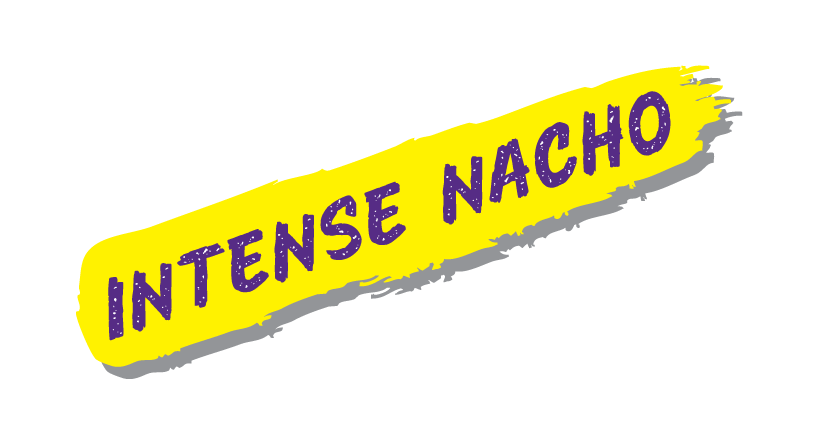
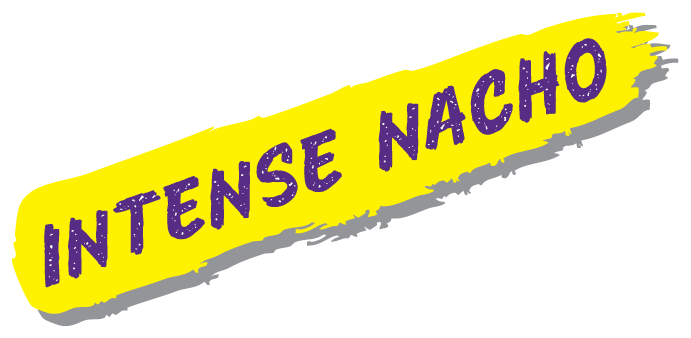
Ronda 66: jerarquía visual + espaciado + selector legible en Takis
Tres correcciones del cliente sobre la tarjeta de nombre+descripción y el selector de presentación:

- Se quita la etiqueta "TAKIS" (competía con el nombre real del sabor). Los 8 PNG oficiales de nombres tenían ~35-45% de margen transparente alrededor del manchón (verificado con getbbox()), así que se recortaron a su contenido real y el nombre crece de max-w-240px a max-w-sm/md: ahora es el elemento más grande de la tarjeta.
- Nombre+descripción, picómetro y CTA se agrupan en bloques con su propio spacing en vez de 5 elementos sueltos con el mismo gap plano; la descripción baja a text-sm/60% para no competir en peso con el nombre.
- La barra negra sólida de "Presentación" (fix de contraste de la Ronda 65) tapaba el borde de las pastillas inactivas de SizePicker, sin affordance de botón. Pasa a bg-white/95, el mismo fondo y contraste con el que ese selector ya funciona en las otras 5 marcas.

Changed region(s): [[0.0, 0.0296, 1.0, 0.9763]]

diff --git a/src/components/TakisProductDetail.tsx b/src/components/TakisProductDetail.tsx
@@ -41,6 +41,28 @@ import RelatedProductsSlider from "./RelatedProductsSlider";
 // (bg-barcel-black) en vez de flotar directo sobre la imagen. Además se
 // reemplaza bg.jpg por el fondo oficial nuevo que compartió el cliente
 // (BG Takis.pdf: diagonal morado/amarillo con espirales de marca).
+//
+// Ronda 66: tres correcciones del cliente sobre esta misma tarjeta:
+// 1) La etiqueta "TAKIS" se quita — competía en peso visual con el
+//    nombre real del sabor. Los PNG oficiales de nombres además traían
+//    ~35-45% de margen transparente alrededor del manchón (verificado
+//    con getbbox()), así que el <img> se veía chico y con huecos raros
+//    arriba/abajo aunque el contenedor fuera grande — se recortaron los
+//    8 PNG a su contenido real (+12px de aire) antes de esta ronda, y
+//    ahora el nombre crece de max-w-[240px] a max-w-sm/md: es el
+//    elemento más grande de la tarjeta, como pidió el cliente.
+// 2) "Todo tiene el mismo peso": se agrupa nombre+descripción,
+//    picómetro y CTA en bloques con su propio spacing (gap-6 entre
+//    bloques en vez de un gap-4 plano en 5 elementos sueltos) y se baja
+//    la descripción a text-sm/60% para que no compita con el nombre.
+// 3) La barra negra sólida de "Presentación" (fix de contraste de la
+//    Ronda 65) rompía el borde de las pastillas inactivas de
+//    SizePicker (border-barcel-black/15 es invisible sobre fondo
+//    negro) — "el color negro hace difícil la interacción con el
+//    selector". Pasa a bg-white/95, igual que el resto de tarjetas de
+//    esta página y que el selector de las otras 5 marcas (mismo
+//    componente SizePicker, mismo contraste, "el selector de las demás
+//    marcas" que el cliente pidió recuperar).
 export default function TakisProductDetail({
   brand,
   flavor,
@@ -178,27 +200,30 @@ export default function TakisProductDetail({
             />
           </div>
 
-          <div className="order-2 flex flex-col items-start gap-4 bg-white/95 p-6 md:order-3 md:p-8">
-            <p className="font-display text-sm font-bold uppercase tracking-[0.2em] text-takis-purple">
-              {brand.name}
-            </p>
-            {flavor.nameImage ? (
-              /* eslint-disable-next-line @next/next/no-img-element */
-              <img
-                src={flavor.nameImage}
-                alt={fullName}
-                className="h-auto w-full max-w-[240px]"
-              />
-            ) : (
-              <h1 className="font-teko text-6xl font-bold uppercase leading-[0.9] text-barcel-black">
-                {fullName}
-              </h1>
-            )}
-            {(flavor.description ?? brand.description) && (
-              <p className="font-takisBody text-base leading-relaxed text-barcel-black/70">
-                {flavor.description ?? brand.description}
-              </p>
-            )}
+          <div className="order-2 flex flex-col items-start gap-6 bg-white/95 p-6 md:order-3 md:p-8">
+            {/* Ronda 66: nombre+descripción agrupados como un solo bloque
+                (gap-3) — el nombre es el elemento más grande de toda la
+                tarjeta, sin la etiqueta "TAKIS" compitiendo arriba. */}
+            <div className="flex flex-col gap-3">
+              {flavor.nameImage ? (
+                /* eslint-disable-next-line @next/next/no-img-element */
+                <img
+                  src={flavor.nameImage}
+                  alt={fullName}
+                  className="h-auto w-full max-w-[280px] sm:max-w-sm md:max-w-[22rem]"
+                />
+              ) : (
+                <h1 className="font-teko text-6xl font-bold uppercase leading-[0.9] text-barcel-black">
+                  {fullName}
+                </h1>
+              )}
+              {(flavor.description ?? brand.description) && (
+                <p className="max-w-sm font-takisBody text-sm leading-relaxed text-barcel-black/60">
+                  {flavor.description ?? brand.description}
+                </p>
+              )}
+            </div>
+
             {flavor.spiceLevel && (
               <div className="w-full border-t border-black/10 pt-4">
                 <Picometro level={flavor.spiceLevel} />
@@ -215,15 +240,19 @@ export default function TakisProductDetail({
         </div>
 
         {flavor.sizes && flavor.sizes.length > 0 && (
-          // Ronda 65: mismo criterio que el breadcrumb — barra sólida en
-          // vez de texto blanco flotando sobre el fondo (podía caer sobre
-          // la zona amarilla del nuevo bg.jpg y perder todo el contraste).
-          <div className="relative z-10 bg-barcel-black py-5">
+          // Ronda 66: la barra negra sólida (fix de contraste de la Ronda
+          // 65) tapaba el borde border-barcel-black/15 de las pastillas
+          // inactivas de SizePicker — quedaban sin borde visible, sin
+          // affordance de que son botones. Pasa a bg-white/95: mismo
+          // fondo claro que ya usan Sellos/Ingredientes y nombre+
+          // descripción, y el mismo contraste con el que este selector
+          // ya funciona bien en las otras 5 marcas.
+          <div className="relative z-10 bg-white/95 py-5">
             <div className="container-page flex flex-col items-center gap-2.5 md:flex-row md:justify-center">
-              <p className="font-display text-sm font-bold text-white">Presentación:</p>
+              <p className="font-display text-sm font-bold text-barcel-black">Presentación:</p>
               <SizePicker sizes={flavor.sizes} />
               {!flavor.nutrition && (
-                <p className="font-body text-xs text-white/70">
+                <p className="font-body text-xs text-barcel-black/60">
                   * Presentaciones de ejemplo — pendientes de confirmar con Barcel.
                 </p>
               )}
